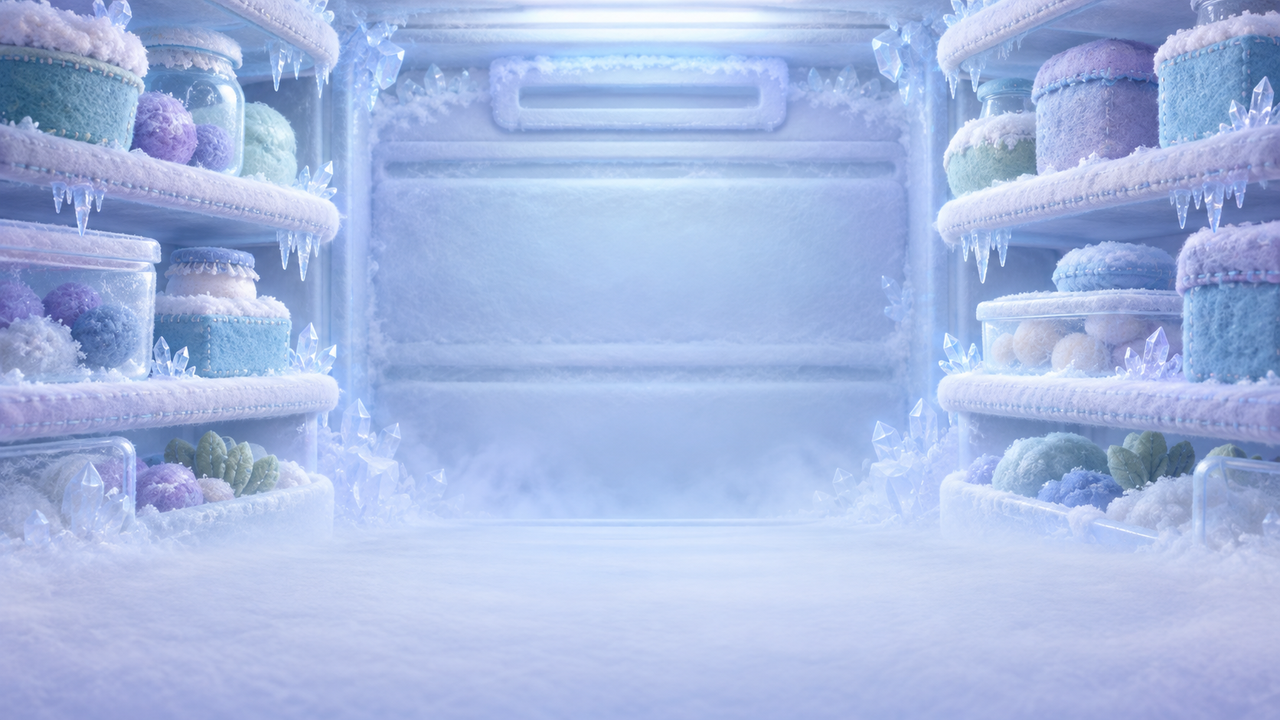
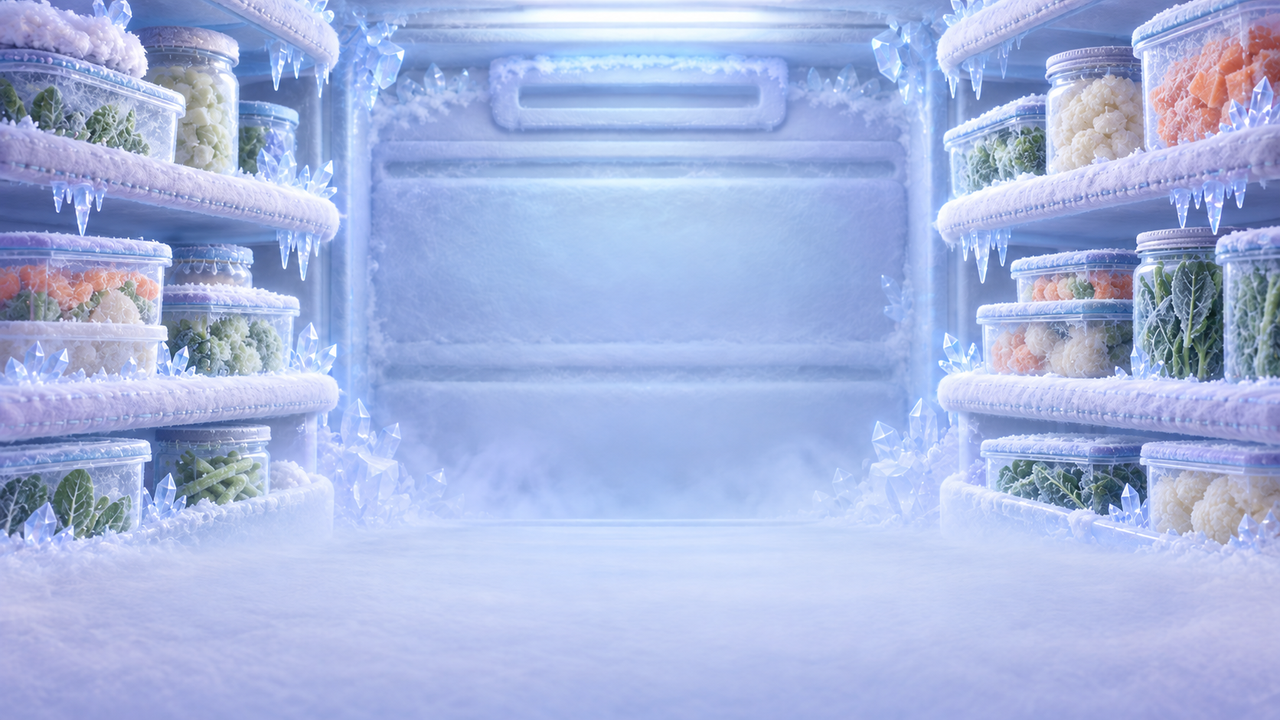
터비 4장 C4-5: 2차 에셋·검수 보정 22종 연결(codex/turby-ch4-assets 5b90b56) — 대화 배경 수정본·전투 시트·표적·바닥 효과·극세사 아이콘·지도 표식·연출 3종·도안 벽 교체본·가느리 실 땀 층
- 받아들이기 점검 22종 통과(크기·알파·시트 폭·manifest 해시) 후 복사, 계약 시험 fridgeArt2(20종)·fridgeArt 해시 갱신
- 박힌 가느리 외곽광을 몸 전체에서 실 땀 층(overlay_ganeuri_stitches)으로 옮김(C4-6 QA-11)
- fridge-explore ①: 앵커 복귀 위치 허용 오차를 몸 지름 안(24px)으로 — 복귀 직후 눌린 키로 몇 px 움직임
- 시험: front 189, BE 367, E2E fridge-battle 3/3·fridge-explore 2/2

diff --git a/save-a-turby/test/fridgeArt2.test.ts b/save-a-turby/test/fridgeArt2.test.ts
@@ -1,0 +1,77 @@
+// 10-23 C4-5: 4장 2차 에셋(C4-4)·검수 보정(delivery-v3) 연결 — 파일·키(파일명)·크기·알파·해시(Codex manifest, codex/turby-ch4-assets 5b90b56), 시트 프레임 계약, 전투·지도 연결
+import { test } from 'node:test';
+import assert from 'node:assert/strict';
+import { createHash } from 'node:crypto';
+import { existsSync, readFileSync } from 'node:fs';
+import { fileURLToPath } from 'node:url';
+
+const here = (rel: string) => fileURLToPath(new URL(rel, import.meta.url));
+
+// [키, 런타임 경로, 너비, 높이, SHA-256] — 모두 투명 PNG
+const ASSETS: [string, string, number, number, string][] = [
[20 lines of base64/hex data omitted]
+];
+
+test('2차 에셋 19종 + 실 땀 층: 파일·키(파일명)·크기·투명·해시가 Codex manifest와 같다', () => {
+  for (const [key, dir, w, h, hash] of ASSETS) {
+    const file = here(`../src/assets/${dir}/${key}.png`);
+    assert.ok(existsSync(file), `${key} 파일`);
+    const bytes = readFileSync(file);
+    assert.deepEqual([bytes.readUInt32BE(16), bytes.readUInt32BE(20)], [w, h], `${key} 크기`);
+    assert.equal(createHash('sha256').update(bytes).digest('hex').toUpperCase(), hash, `${key} 해시`);
+    assert.ok(bytes[25] === 6 || bytes[25] === 4 || bytes.includes(Buffer.from('tRNS')), `${key} 투명`);
+  }
+  assert.equal(new Set(ASSETS.map((a) => a[0])).size, 20);
+});
+
+test('시트 계약: 등록 프레임 × 4 = 시트 폭, 두 상태 시트는 같은 규격, 전투 정의 캐릭터 → 시트·표적 그림', () => {
+  const reg = readFileSync(here('../src/assets/registry.ts'), 'utf8');
+  const frame = (key: string) => {
+    const m = reg.match(new RegExp(`'${key}': \\{ size: (\\d+), frames: (\\d+), fps: (\\d+) \\}`));
+    assert.ok(m, `${key} 시트 등록`);
+    return { size: Number(m![1]), frames: Number(m![2]) };
+  };
+  for (const [key, , w, h] of ASSETS.filter((a) => /-idle$|-exposed$|-stopped$/.test(a[0]))) {
+    const f = frame(key);
+    assert.deepEqual([f.size * f.frames, f.size], [w, h], `${key} 규격`);
+  }
+  assert.deepEqual(frame('thimble-guard-idle'), frame('thimble-guard-exposed'));
+  assert.deepEqual(frame('frost-machine-idle'), frame('frost-machine-stopped'));
+  for (const [code, key] of [['frozen_sewn_doll', 'frozen-sewn-doll-idle'], ['thimble_guard', 'thimble-guard-idle'], ['frost_machine', 'frost-machine-idle']]) assert.match(reg, new RegExp(`${code}: '${key}'`));
+  const scene = readFileSync(here('../src/scenes/BattleScene.ts'), 'utf8').replace(/\r\n/g, '\n');
+  assert.match(scene, /frost_machine: \{ idle: 'frost-machine-idle', exposed: 'frost-machine-stopped', labelBelow: \d+ \}/);
+  assert.match(scene, /thimble_guard: \{ bound: 'thimble-guard-idle', exposed: 'thimble-guard-exposed' \}/);
+  for (const [code, key] of [['ice_shard', 'ice-shard'], ['black_stitch', 'black-stitch'], ['lower_thread', 'lower-thread'], ['upper_thread', 'upper-thread'], ['link_thread', 'link-thread']]) assert.match(scene, new RegExp(`${code}: \\{ key: '${key}'`));
+  assert.match(scene, /const ICE_KEY = 'ice-cell';\nconst NEEDLE_MARK_KEY = 'battle-needle-mark';\nconst PINNED_KEY = 'pinned-stitch';/);
+});
+
+test('지도 연결: 길목·서리 미싱 입구 표식, 외곽광은 박힌 가느리의 실 땀 층에만(몸 전체 아님)', () => {
+  const ICE = JSON.parse(readFileSync(here('../../BE/story-data/save-a-turby/stages/ice.json'), 'utf8')) as {
+    storyPoints: { id: string; assetKey: string; art?: { width: number; glow?: boolean } }[];
+    render: { overlays: { id: string; assetKey: string; x: number; y: number; width: number; height: number; glow?: boolean; hiddenAfter?: string }[] };
+  };
+  const pt = (id: string) => ICE.storyPoints.find((p) => p.id === id)!;
+  assert.deepEqual([pt('fridge_guard').assetKey, pt('fridge_boss_entrance').assetKey], ['frozen-guard-mark', 'frost-machine-mark']);
+  assert.equal(pt('fridge_ganeuri').art!.glow, undefined, '몸 전체 외곽광 없음');
+  const st = ICE.render.overlays.find((o) => o.assetKey === 'ganeuri-pinned-stitches')!;
+  assert.deepEqual([st.x, st.y, st.width, st.height, st.glow, st.hiddenAfter], [1680, 1600, 124, 124, true, 'fridge_ganeuri_freed']);
+});

diff --git a/save-a-turby/test/fridgeArt.test.ts b/save-a-turby/test/fridgeArt.test.ts
@@ -7,7 +7,7 @@ import { fileURLToPath } from 'node:url';
 
 const here = (rel: string) => fileURLToPath(new URL(rel, import.meta.url));
 
-// [키, 런타임 경로, 너비, 높이, 알파 있음, SHA-256(Codex delivery-v1 manifest)]
+// [키, 런타임 경로, 너비, 높이, 알파 있음, SHA-256(Codex delivery-v1 manifest — 대화 배경은 delivery-v1-fix, 도안 벽은 delivery-v3 교체본)]
 const ASSETS: [string, string, number, number, boolean, string][] = [
[2 lines of base64/hex data omitted]
@@ -15,12 +15,12 @@ const ASSETS: [string, string, number, number, boolean, string][] = [
[11 lines of base64/hex data omitted]
 ];
 
 test('1차 에셋 12종: 파일·키(파일명)·크기·알파 유무·해시가 Codex 전달 manifest와 같고 중복 키가 없다', () => {
@@ -49,7 +49,7 @@ test('지역 데이터 표시 계약: 최종 배경, 가느리 124·고백 빛 1
   };
   assert.deepEqual([ICE.greybox, ICE.render.markerMode, ICE.render.background.assetKey], [false, 'final', 'fridge-base']);
   const art = (id: string) => ICE.storyPoints.find((p) => p.id === id)!;
-  assert.deepEqual([art('fridge_ganeuri').assetKey, art('fridge_ganeuri').art!.width, art('fridge_ganeuri').art!.glow], ['ganeuri-pinned', 124, true], 'C4-6 QA-11: 외곽광');
+  assert.deepEqual([art('fridge_ganeuri').assetKey, art('fridge_ganeuri').art!.width, art('fridge_ganeuri').art!.glow], ['ganeuri-pinned', 124, undefined], 'C4-6 QA-11: 외곽광은 실 땀 층에만');
   assert.deepEqual([art('fridge_confession').assetKey, art('fridge_confession').art!.width, art('fridge_confession').art!.glow], ['frost-crack-light', 120, true]);
   const g = ICE.layout.gates[0];
   assert.deepEqual([g.closedAssetKey, g.openAssetKey, g.art.width, g.art.height], ['storage-door-closed', 'storage-door-open', 220, 140]);

diff --git a/BE/test/e2e/fridge-explore.e2e.ts b/BE/test/e2e/fridge-explore.e2e.ts
@@ -154,7 +154,7 @@ test('4장 C4-1 ①(1280×720): 냉장고 입장 → 도입(누비만 듣는 목
     m = await map(g);
     const west = ICE.safeAnchors.find((a) => a.id === 'anchor_needle_west')!;
     assert.equal(m.lastNeedleId, 'needle_1');
-    assert.ok(Math.hypot(m.avatar.x - west.x, m.avatar.y - west.y) < 8, `서쪽 앵커로 돌아왔다 (${m.avatar.x}, ${m.avatar.y})`);
+    assert.ok(Math.hypot(m.avatar.x - west.x, m.avatar.y - west.y) < 24, `서쪽 앵커로 돌아왔다 (${m.avatar.x}, ${m.avatar.y})`); // 복귀 직후 눌려 있던 키로 몇 px 더 움직일 수 있다 — 몸 지름 안이면 앵커
     assert.ok(m.notices.some((n) => n.includes('바늘')), '바늘 안내 한 번');
     db = dbOf(device);
     assert.deepEqual([db.checkpoint, db.growth, db.items], ['CH04_GANEURI_RESCUED', before.growth, before.items], '진행·보상 변화 없음');
